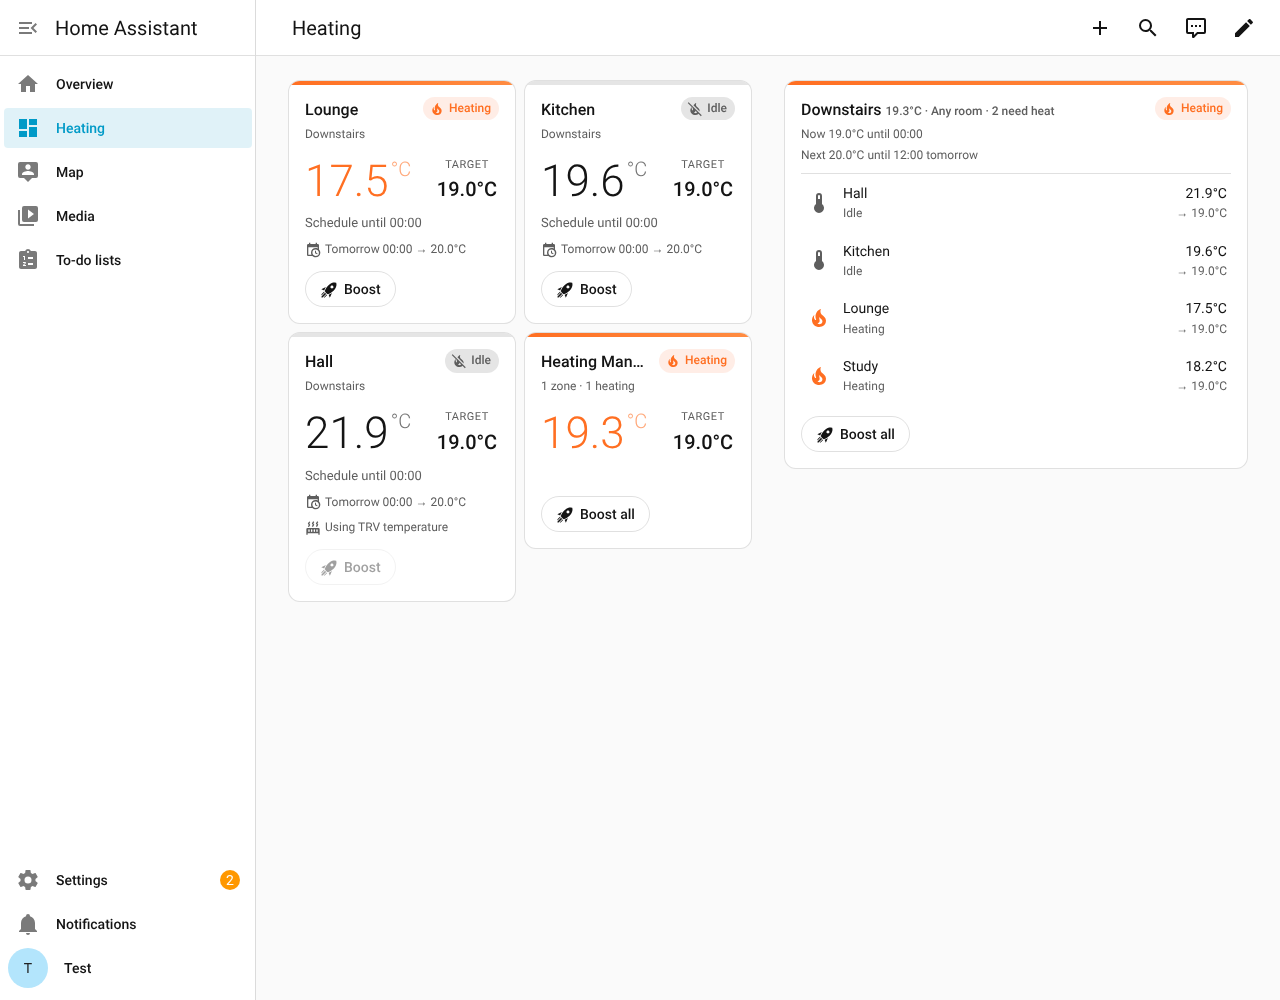
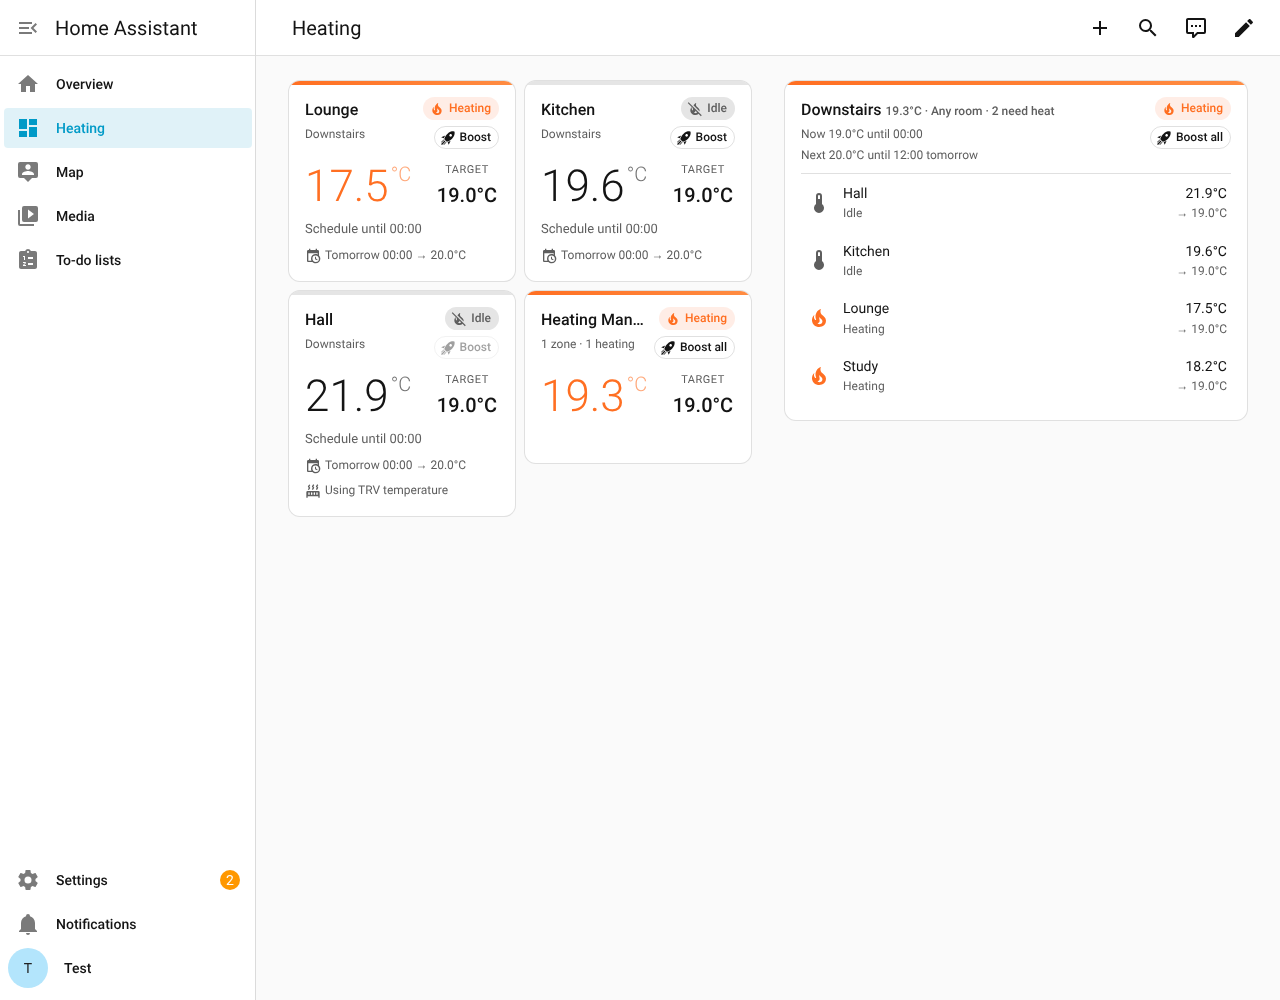
Boost under the status chip, the same size as it
Claude-Session: https://claude.ai/code/session_01SA3whnCqxHgUfZ8bmw5j3b

diff --git a/heating-manager-ui.js b/heating-manager-ui.js
@@ -401,7 +401,12 @@ const STYLES = `
   .info .up { color: var(--hm-heat); }
   .info .down { color: var(--cool-color, var(--info-color, #039be5)); }
   .info .warn { color: var(--hm-warn); }
-  .actions { display: flex; flex-wrap: wrap; gap: 8px; margin-top: 12px; }
+  /* The chip, with Boost under it, top right */
+  .side { display: flex; flex-direction: column; align-items: flex-end; gap: 6px; flex-shrink: 0; }
+  .actions { display: flex; flex-wrap: wrap; justify-content: flex-end; gap: 8px; }
+  /* The same size as the chip (its 1px border comes out of the padding) */
+  .side .action { height: auto; padding: 1px 7px 1px 5px; gap: 4px; border-radius: 12px; font-size: 12px; }
+  .side .action ha-icon { --mdc-icon-size: 16px; }
   .action { display: inline-flex; align-items: center; gap: 6px; height: 36px; padding: 0 14px;
     border-radius: 18px; border: 1px solid var(--divider-color, rgba(127,127,127,0.3)); background: transparent;
     cursor: pointer; font-size: 14px; font-weight: 500; color: var(--primary-text-color); }
@@ -828,7 +833,10 @@ export class HeatingRoomCard extends HeatingBaseCard {
               <div class="name">${escapeHtml(view.name)}</div>
               ${sub ? `<div class="sub">${sub}</div>` : ''}
             </div>
-            <span class="chip ${chip.level}"><ha-icon icon="${chip.icon}"></ha-icon>${chip.label}</span>
+            <div class="side">
+              <span class="chip ${chip.level}"><ha-icon icon="${chip.icon}"></ha-icon>${chip.label}</span>
+              ${actions.length ? `<div class="actions">${actions.join('')}</div>` : ''}
+            </div>
           </div>
           <div class="main">
             <div class="current ${chip.level === 'heating' ? 'heating' : ''}" data-tap="">${formatTemp(view.current, unit)}<span class="unit">${unit}</span></div>
@@ -836,7 +844,6 @@ export class HeatingRoomCard extends HeatingBaseCard {
           </div>
           <div class="status">${status}</div>
           ${info.length ? `<div class="info">${info.join('')}</div>` : ''}
-          ${actions.length ? `<div class="actions">${actions.join('')}</div>` : ''}
         </div>
       </ha-card>`;
   }
@@ -1012,10 +1019,12 @@ export class HeatingZoneCard extends HeatingBaseCard {
               ${now ? `<div class="sub now">${now}</div>` : ''}
               ${next ? `<div class="sub next">${next}</div>` : ''}
             </div>
-            <span class="chip ${chip.level}"><ha-icon icon="${chip.icon}"></ha-icon>${chip.label}</span>
+            <div class="side">
+              <span class="chip ${chip.level}"><ha-icon icon="${chip.icon}"></ha-icon>${chip.label}</span>
+              ${actions.length ? `<div class="actions">${actions.join('')}</div>` : ''}
+            </div>
           </div>
           <div class="rows">${rows.join('') || '<div class="empty">No rooms in this zone yet. Add them in the zone\'s settings on the Heating Manager integration page.</div>'}</div>
-          ${actions.length ? `<div class="actions">${actions.join('')}</div>` : ''}
         </div>
       </ha-card>`;
   }

diff --git a/CHANGELOG.md b/CHANGELOG.md
@@ -9,6 +9,7 @@ and this project adheres to [Semantic Versioning](https://semver.org/spec/v2.0.0
 
 ### Changed
 - The zone card's title is on three lines: the zone's temperature and heat demand (Any room or Zone average, and how many rooms need heat), then the current period (`Now 19.0°C until 17:00`, or a manual temperature), then the next one (`Next 21.0°C until 22:30`).
+- Boost (and Boost all) is top right, under the status chip and the same size as it.
 - Removed the hints under the cards ("Tap for more controls" and the zone card's). A tap still opens Home Assistant's dialog.
 
 ## [2.1.0] - 2026-10-09
